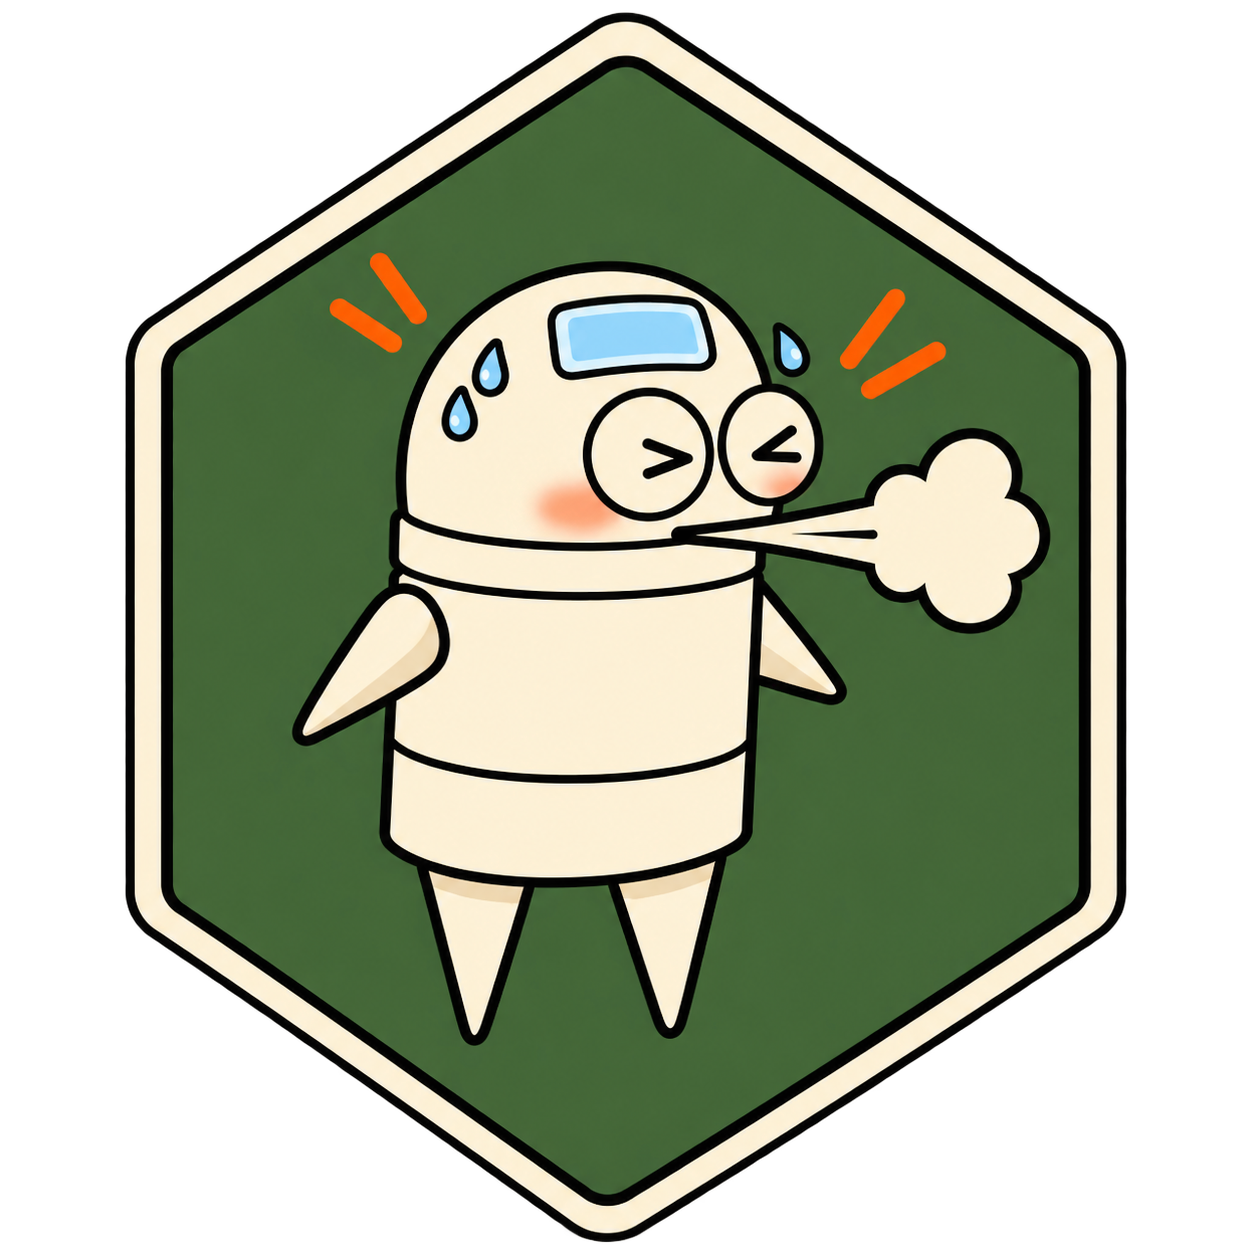
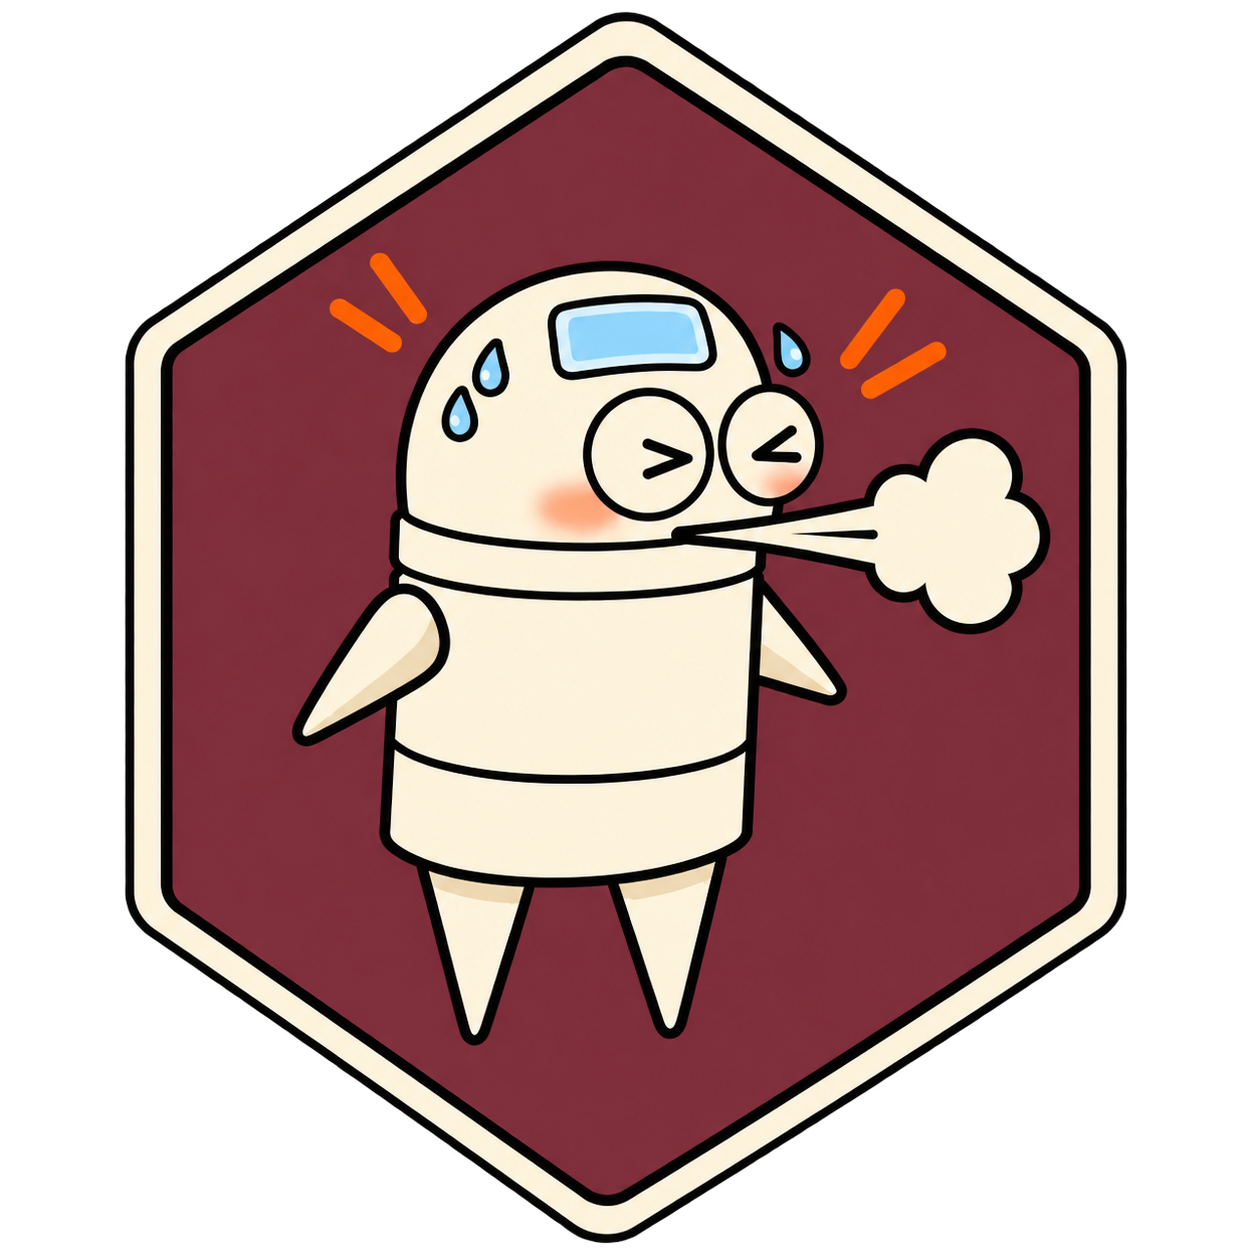
Align Influenza and Courier emblems with role categories

diff --git a/RoleMenu.cs b/RoleMenu.cs
@@ -25,7 +25,7 @@ internal sealed partial class RoleMenu : MonoBehaviour
     private const float RowPadding = 3f;
     private const float RowSpacing = 1.5f;
     private const float LanguageWrapWidthMultiplier = 1f;
-    private const int RoleUiBuildNumber = 482;
+    private const int RoleUiBuildNumber = 483;
     internal static int UiBuildNumber => RoleUiBuildNumber;
 
     private static bool _registered;

diff --git a/docs/INFLUENZA_4.5.1.md b/docs/INFLUENZA_4.5.1.md
@@ -49,11 +49,13 @@ single-piece cone arms attached below a distinct jaw/neck band, eyes above the
 mouth slit, and no human elbows, hands or unrelated decoration.
 
 References: the existing Tank and Medic runtime icons. The final artwork keeps
-the separate neck band, fever patch, sweat, blush and sneeze. The last edit
-removes mosaic-like background artifacts and keeps the established composition.
+the separate neck band, fever patch, sweat, blush and sneeze. Its primary icon
+category is Danger, with the established burgundy interior color `#762C37`.
+The additional Hardship assignment limit reflects its maximum-health penalty.
+Use smooth fills without mosaic-like artifacts and keep the composition.
 The selected master and runtime PNG are named `41-Influenza.png` in the existing
 asset directories. Built-in image generation was used; no external image API.
 
-### Final cleanup prompt
+### Final category-color prompt
 
-Precise cleanup of this EXACT Influenza emblem. Keep every shape, character anatomy, collar band below mouth, cooling patch, sweat droplets, peach blush, sneeze puff, outlines, orange accents, hexagon border, composition and sizing identical. ONLY REMOVE ALL mosaic-like mottling, square/block artifacts, noise and texture. Make the entire green interior a perfectly UNIFORM SOLID flat color #365D33: no gradient, no cloudy shading, no grain, no patchwork blocks whatsoever. Make the cream body and border uniformly clean #FFF2D8 except existing small intentional hard-edged shadow shapes; remove subtle speckled shading. Keep peach fever blush as two smooth intentional small patches. Crisp smooth dark vector-like lines. Clean anti-aliased edges, genuinely transparent exterior of hexagon. No checkered transparency pattern painted into the image, no added text. This is a flat color game UI emblem, never a textured print.
+Use case: precise-object-edit. Edit target: the attached approved Influenza role emblem. Change ONLY the colored interior backdrop inside the hexagonal frame from green to a perfectly uniform solid muted burgundy red #762C37, the established Danger category color for RoleShuffle. Preserve the EXACT existing character, pose, proportions, head, separate shallow jaw/neck band below the mouth, short tapered cone arms, eyes, forehead cooling patch, blue sweat, peach blush, cream sneeze puff, orange rays, black outlines, cream hexagonal border, layout and margins. No redesign, no new details, no repositioning, no silhouette changes. Outside the hexagonal badge stays genuinely transparent alpha. Inside the frame must be fully opaque. Background must have NO mosaic, blocks, grain, texture, gradient, speckles or cloudy patches. Crisp smooth edges and flat game-icon rendering. Return only one square finished icon, no text and no comparison board.

diff --git a/ROLE_ICON_GUIDE.md b/ROLE_ICON_GUIDE.md
@@ -20,6 +20,26 @@ and RoleShuffle-S002 (`01a091a3-dc1e-7463-bad9-ef2e5a5fd3d9`), reconfirmed on
   derive the whole set's anatomy from a later role-specific costume variant.
 - Keep role names and other text out of the artwork.
 
+## Category backgrounds
+
+Use the role's primary icon category for the interior background. Assignment
+balance groups may overlap; they do not require multiple background colors.
+
+| Category | Interior color |
+| --- | --- |
+| Enhancement | `#174665` |
+| Support | `#24563E` |
+| Combat | `#80451F` |
+| Special | `#50356E` |
+| Danger | `#762C37` |
+| Hardship | `#514E49` |
+| Secret | `#756025` |
+
+Influenza uses Danger because it can spread to teammates. It also remains in
+the Hardship assignment group because of its health penalty. Courier uses
+Hardship because delivery pauses its automatic health loss. Preserve the
+existing character and props when correcting a category background.
+
 ## Delivery and review
 
 Keep a full-resolution master and its generation prompt. Export a 256 × 256 RGBA

diff --git a/package/CHANGELOG.md b/package/CHANGELOG.md
@@ -1,5 +1,6 @@
 ## 4.5.1
-- Added Influenza: after a 30-second incubation, maximum HP is fixed at 75. Irregular sneezes and ordinary voice or text chat can infect nearby players in front, replacing their role with Influenza. Infection ends with the stage.
+- Added Influenza, a Danger role: after a 30-second incubation, maximum HP is fixed at 75. Irregular sneezes and ordinary voice or text chat can infect nearby players in front, replacing their role with Influenza. Infection ends with the stage.
+- Matched Courier's emblem background to the Hardship category color.
 
 ## 4.5.0
 - Changed Tank and Runner to strengthen Base health, sprint speed and stamina by 1.5 by default, with configurable minimums and growth limits. They are excluded from random assignment when no further benefit is available or a corresponding Base value reaches its limit.
